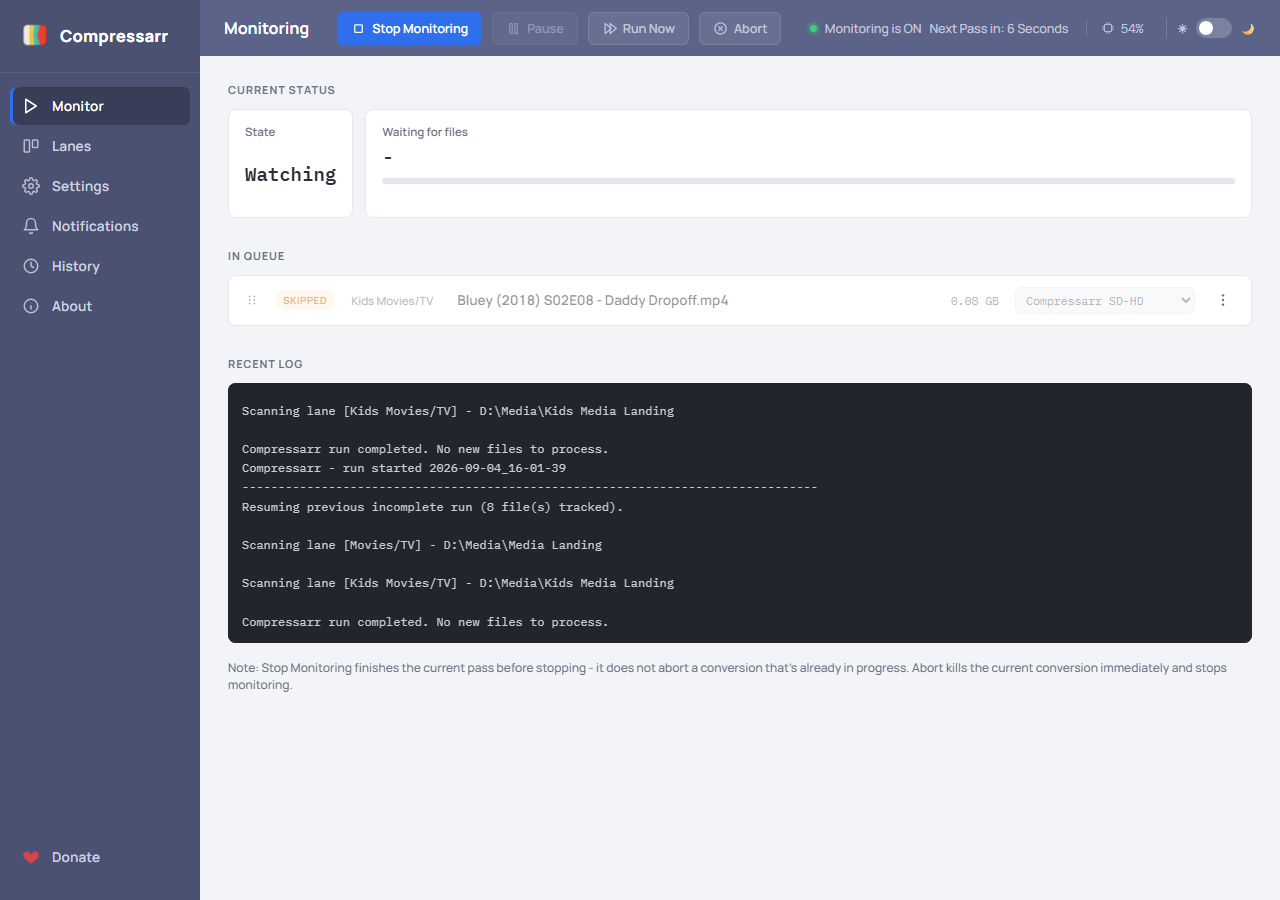
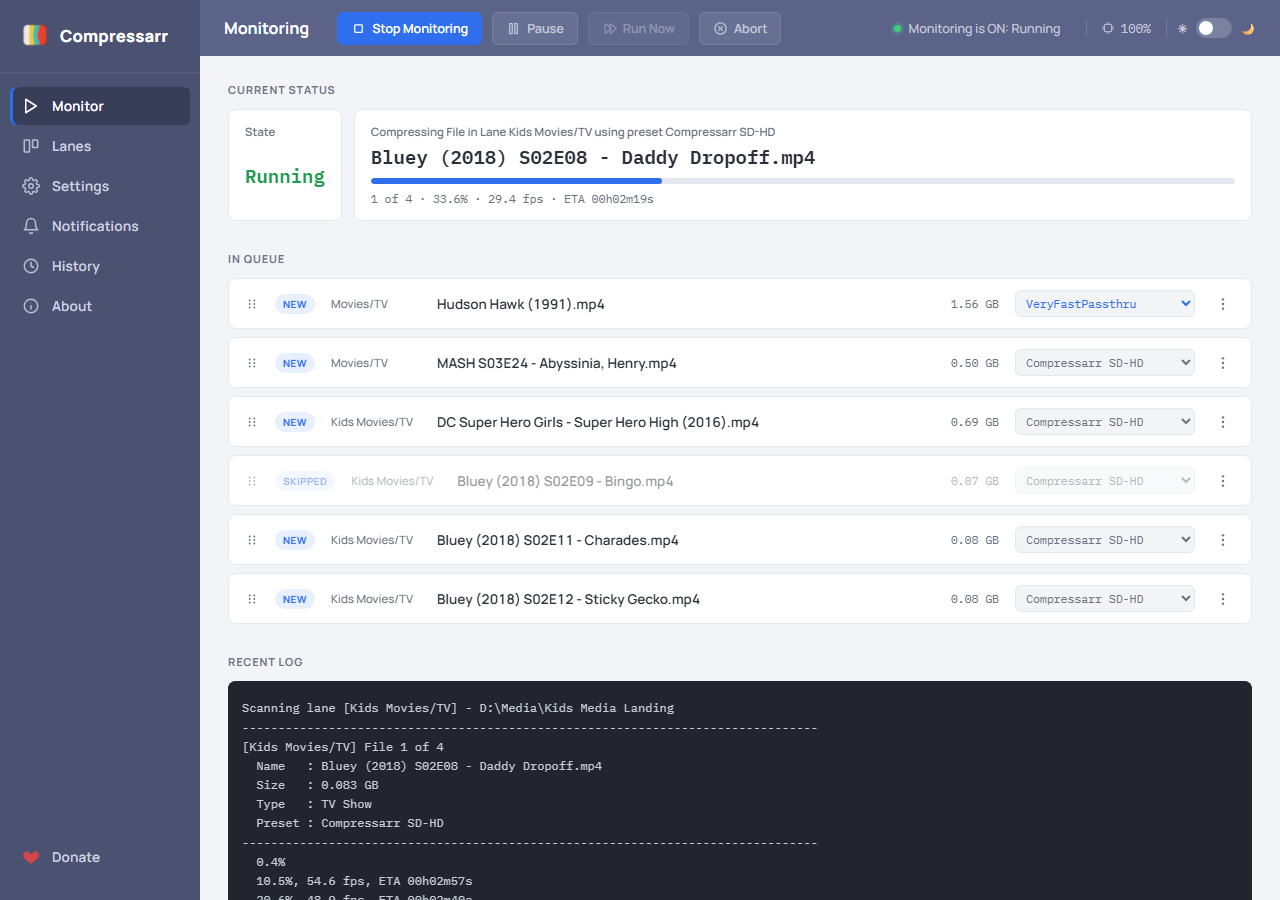
Retake Monitor screenshot against a real, live in-progress conversion
The previous recapture (407b236) showed the current sidebar UI but an
idle "Waiting for files" state, since nothing was actively encoding at
the time. Started real monitoring, waited for the first queued file to
reach ~30% through a genuine HandBrakeCLI encode, then recaptured -
shows a real progress bar, fps, ETA, and the cross-lane-interleaved
queue in action. README alt text restored to describe this correctly.

diff --git a/README.md b/README.md
@@ -85,7 +85,7 @@ file to finish. Drag a queued file to reorder it within its lane, or use its men
 remove it from the queue, or override its preset for just that one file. The recent-log panel and
 CPU usage update live while a pass runs.
 
-<img src="Assets/Screenshots/monitor-page.png" alt="Compressarr Monitor page, showing the In Queue list and recent activity log while monitoring is on" width="700">
+<img src="Assets/Screenshots/monitor-page.png" alt="Compressarr Monitor page, showing a real conversion in progress with live percent/fps/ETA and the In Queue list" width="700">
 
 *The media shown is representational test data only, not the actual film - your own results
 (speed, file size, savings) will vary based on your source files, hardware, and preset.*
